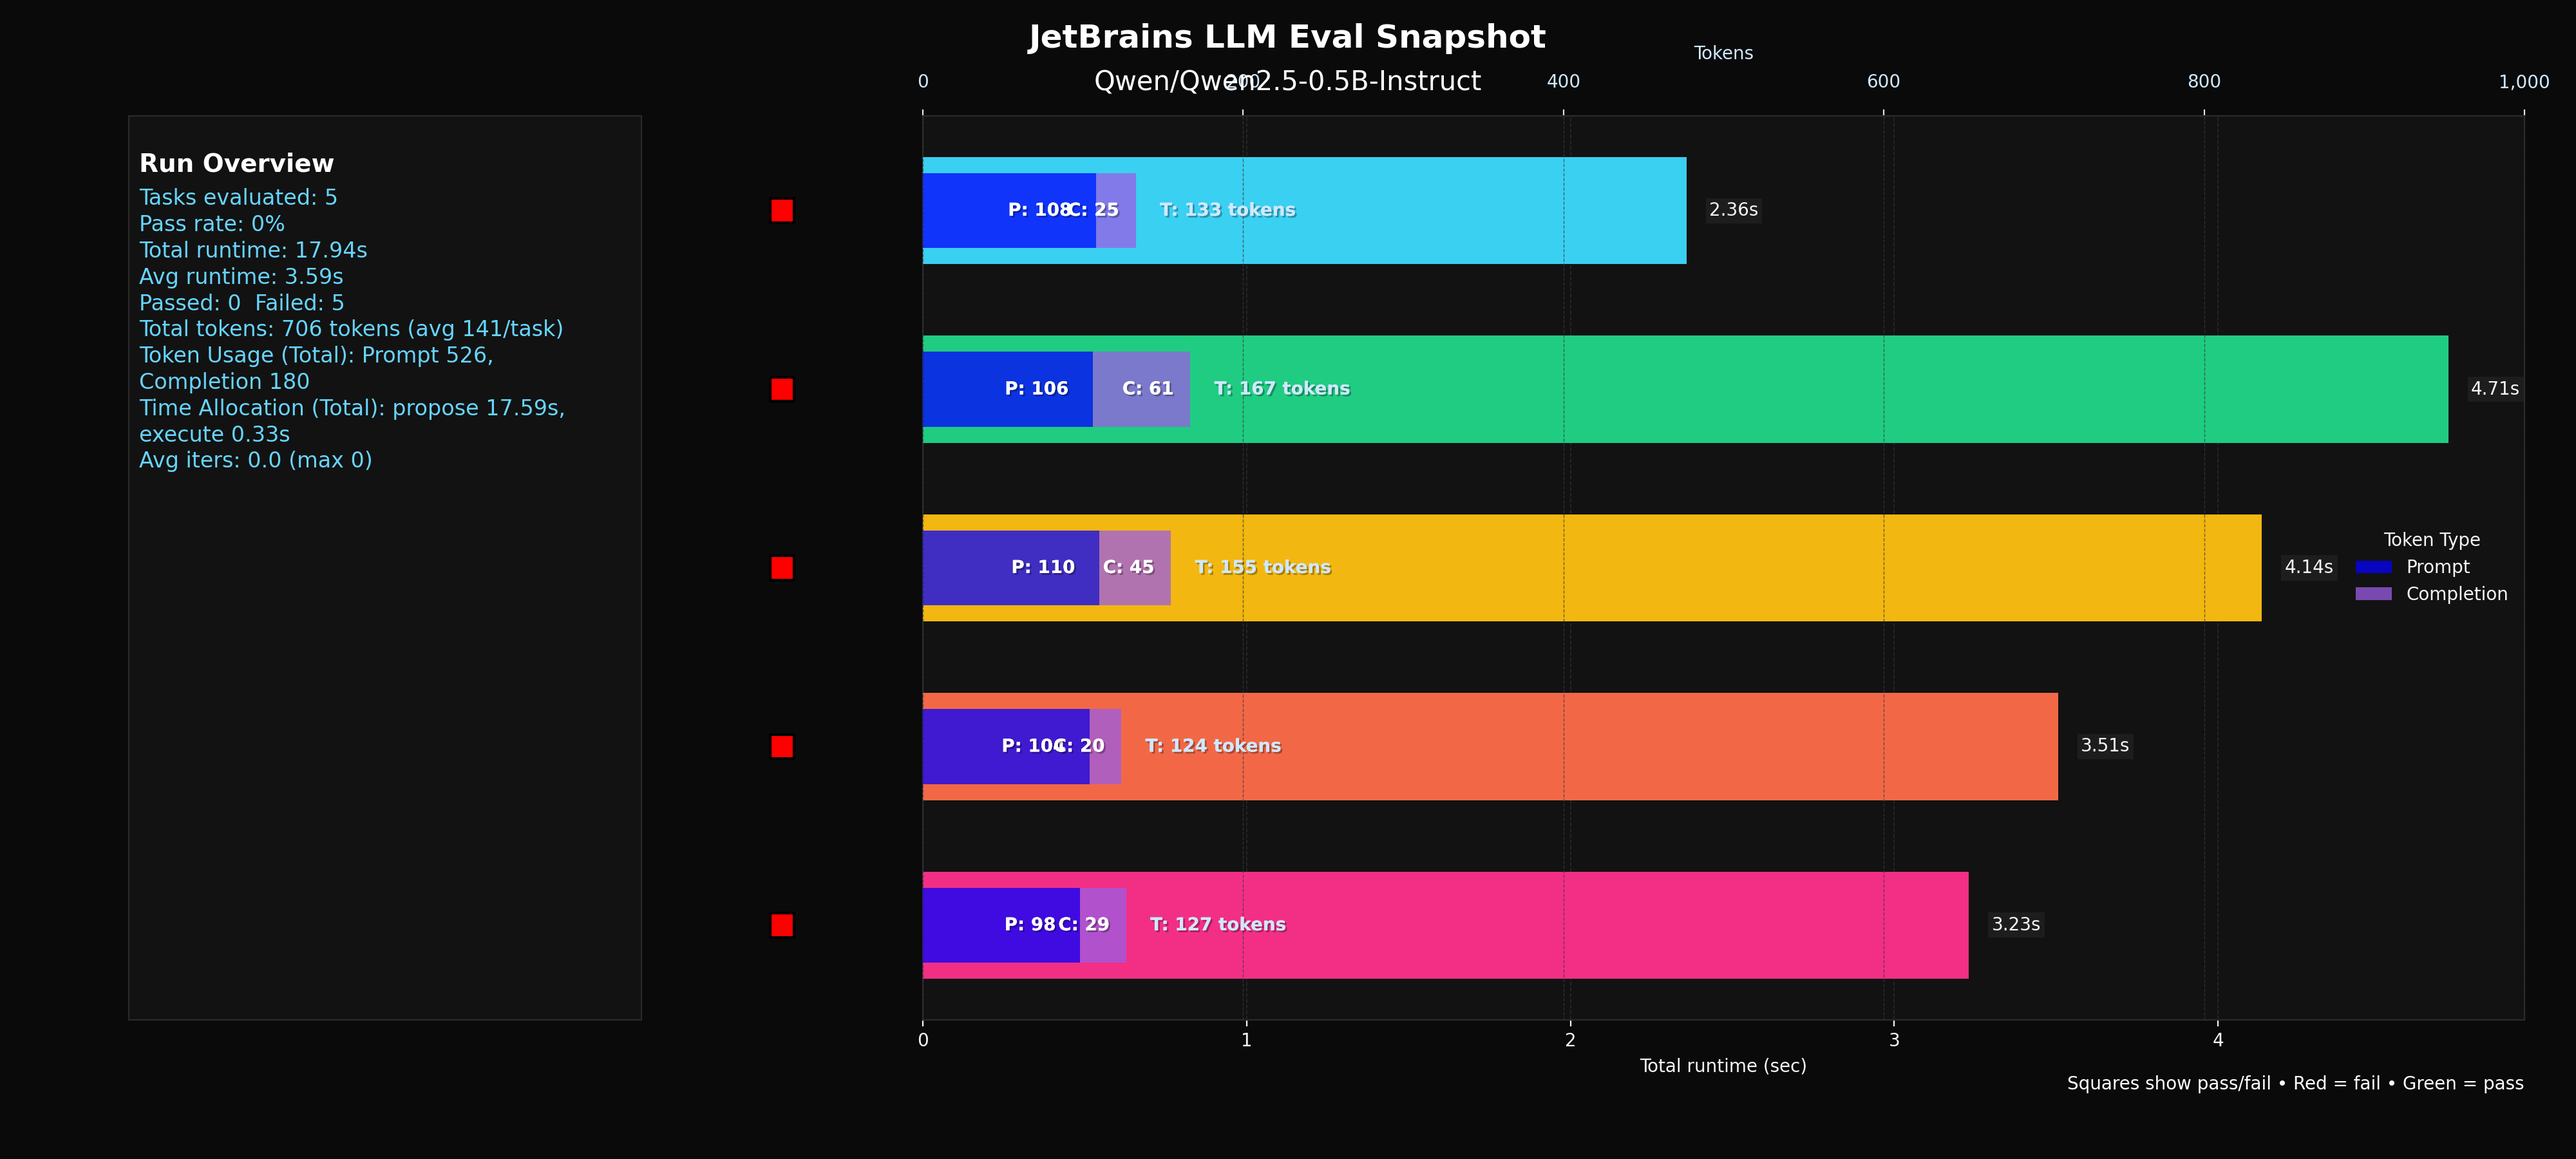
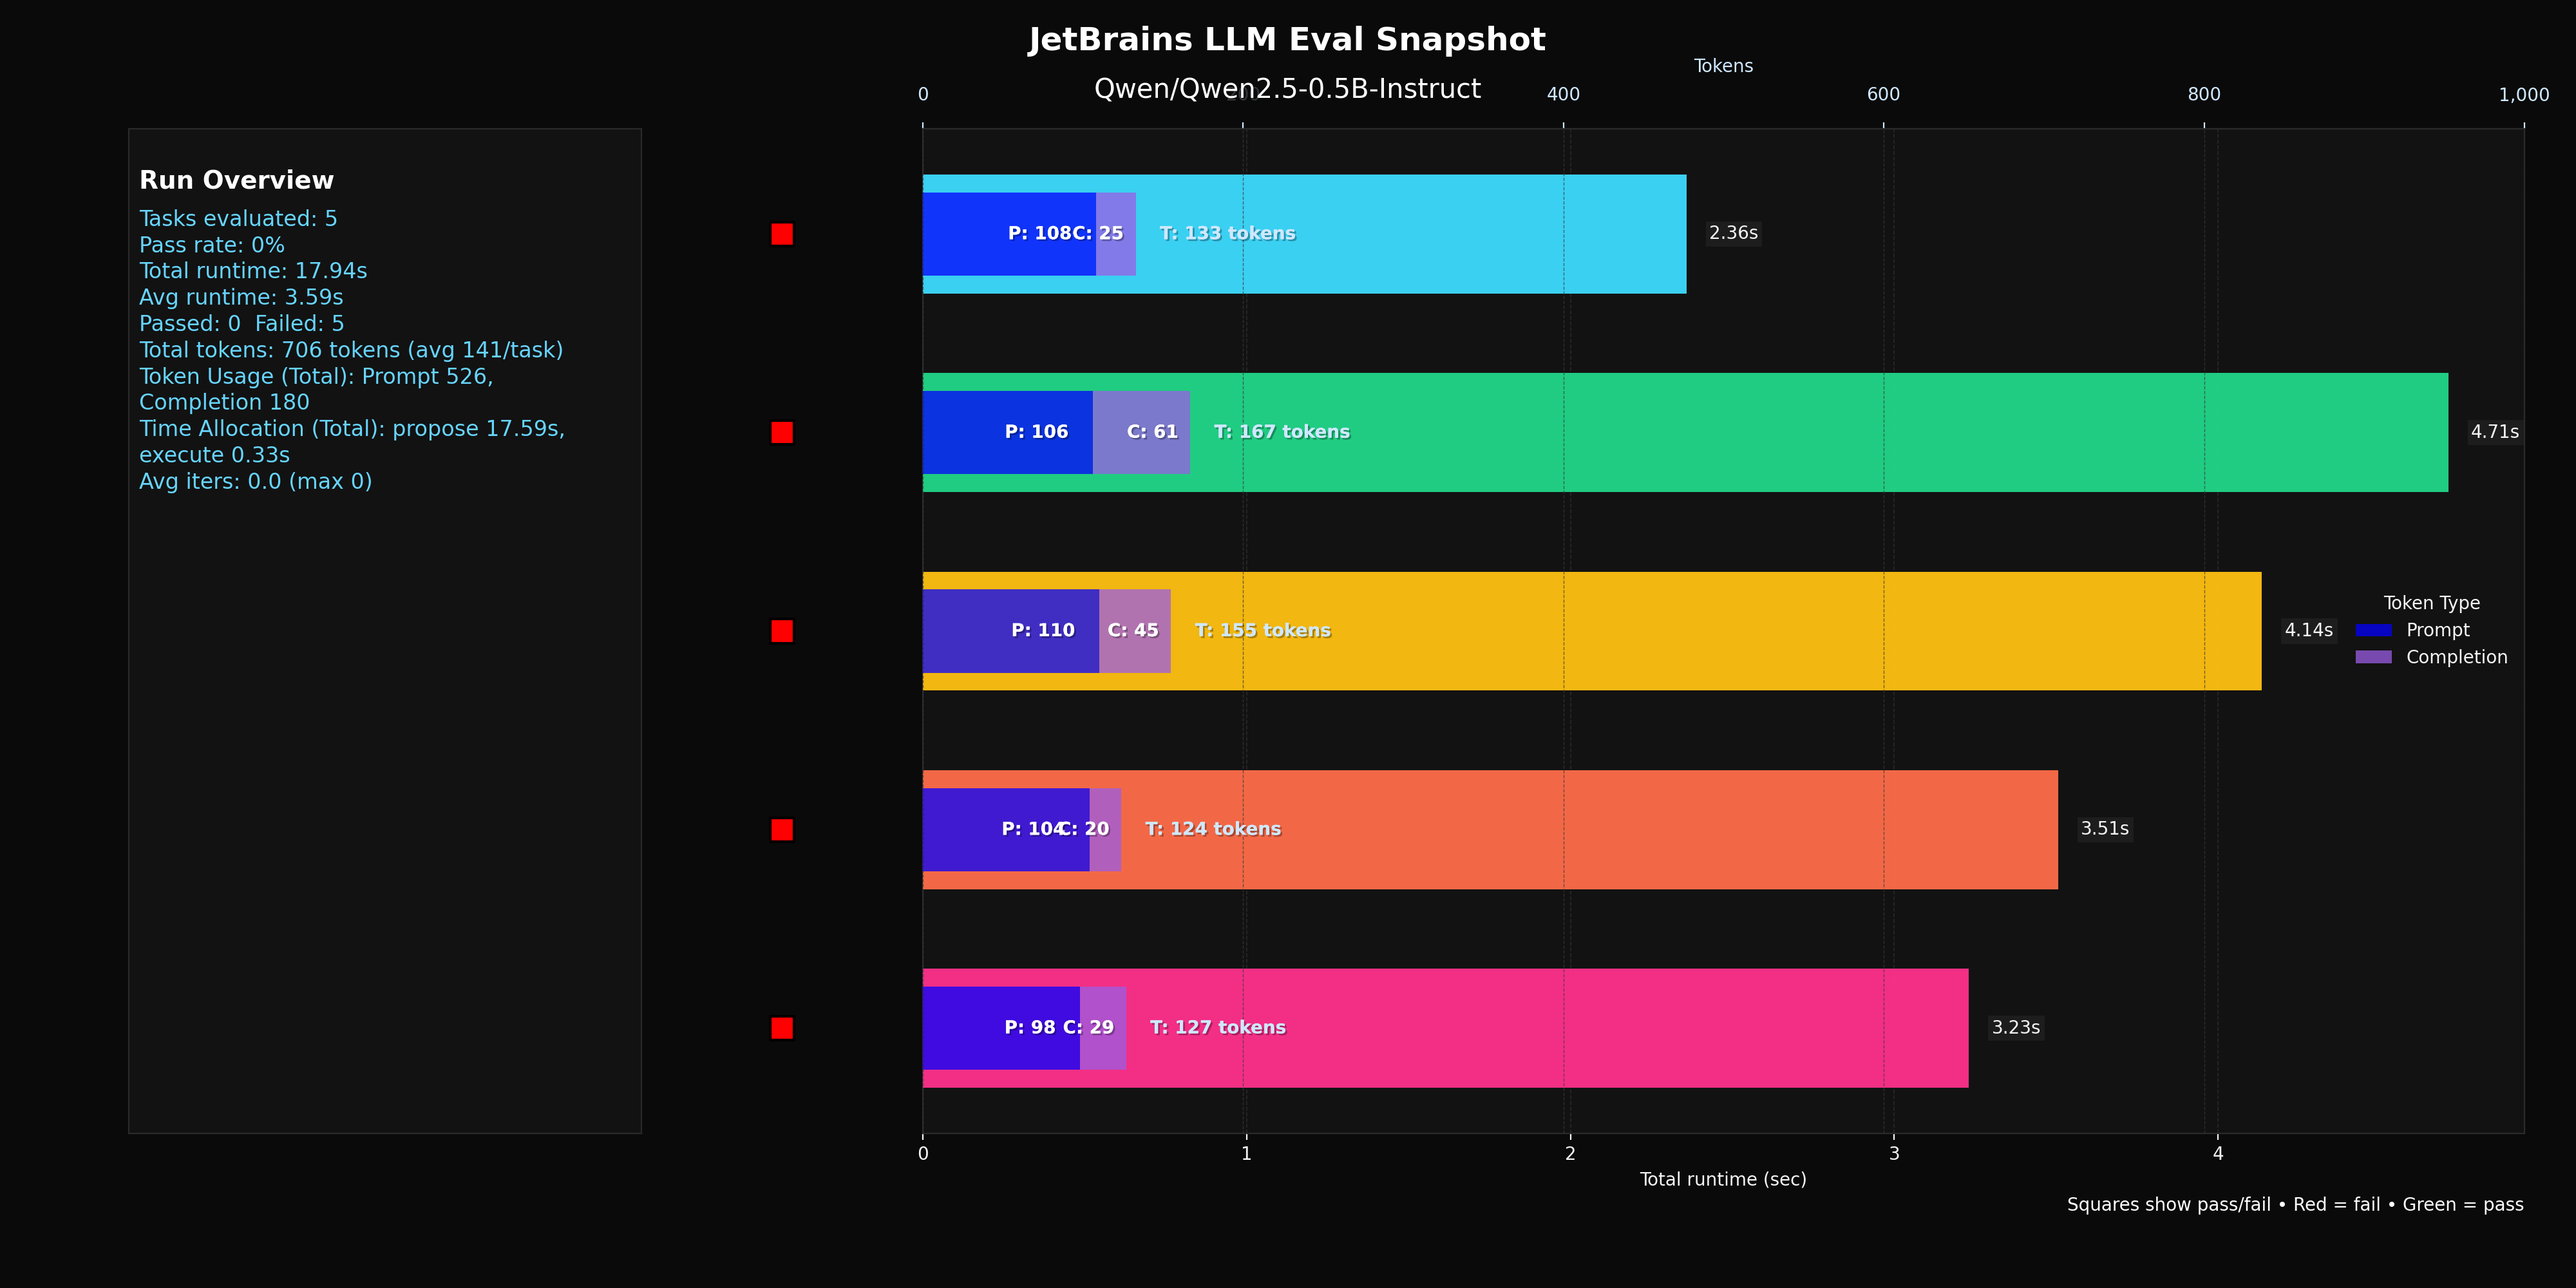
add black background behind model name

diff --git a/src/visualize_results.py b/src/visualize_results.py
@@ -120,7 +120,7 @@ def plot_results(
     color_cycle = build_color_cycle(len(task_ids))
     pass_colors = ["#0DFF00" if flag else "#FF0000" for flag in passed]
 
-    fig = plt.figure(figsize=(20, 9), facecolor=JETBRAINS_BACKGROUND)
+    fig = plt.figure(figsize=(20, 10), facecolor=JETBRAINS_BACKGROUND)
 
     grid = fig.add_gridspec(1, 3, width_ratios=[0.32, 0.1, 1.0], wspace=0.08)
 
@@ -501,6 +501,12 @@ def plot_results(
         fontsize=15,
         ha="center",
         va="top",
+        bbox={
+            "facecolor": JETBRAINS_BACKGROUND,
+            "edgecolor": "none",
+            "alpha": 0.8,
+            "pad": 6,
+        },
     )
     ax_info.text(
         0.02,
